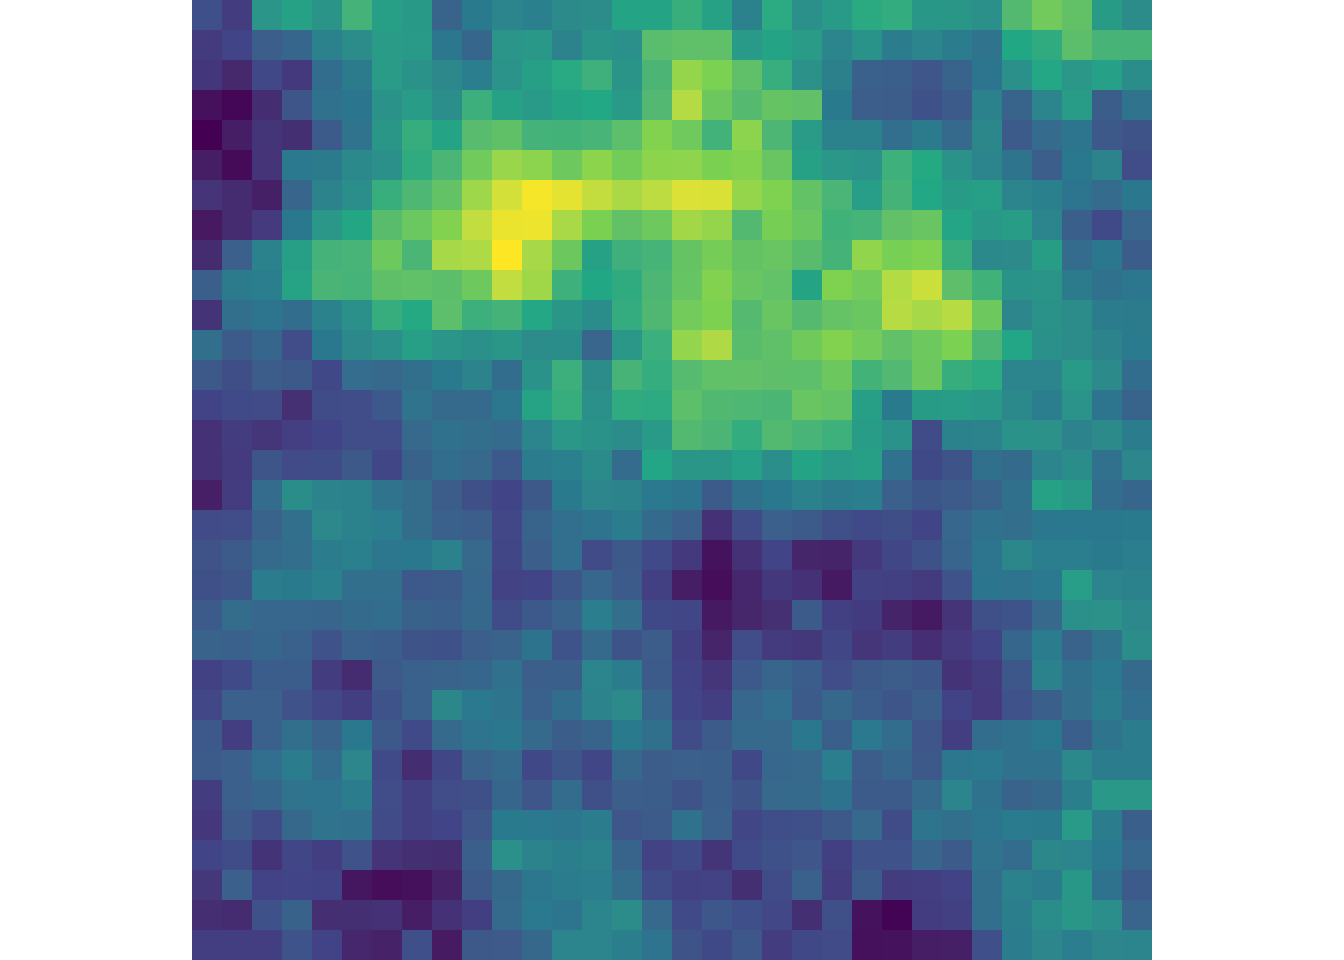
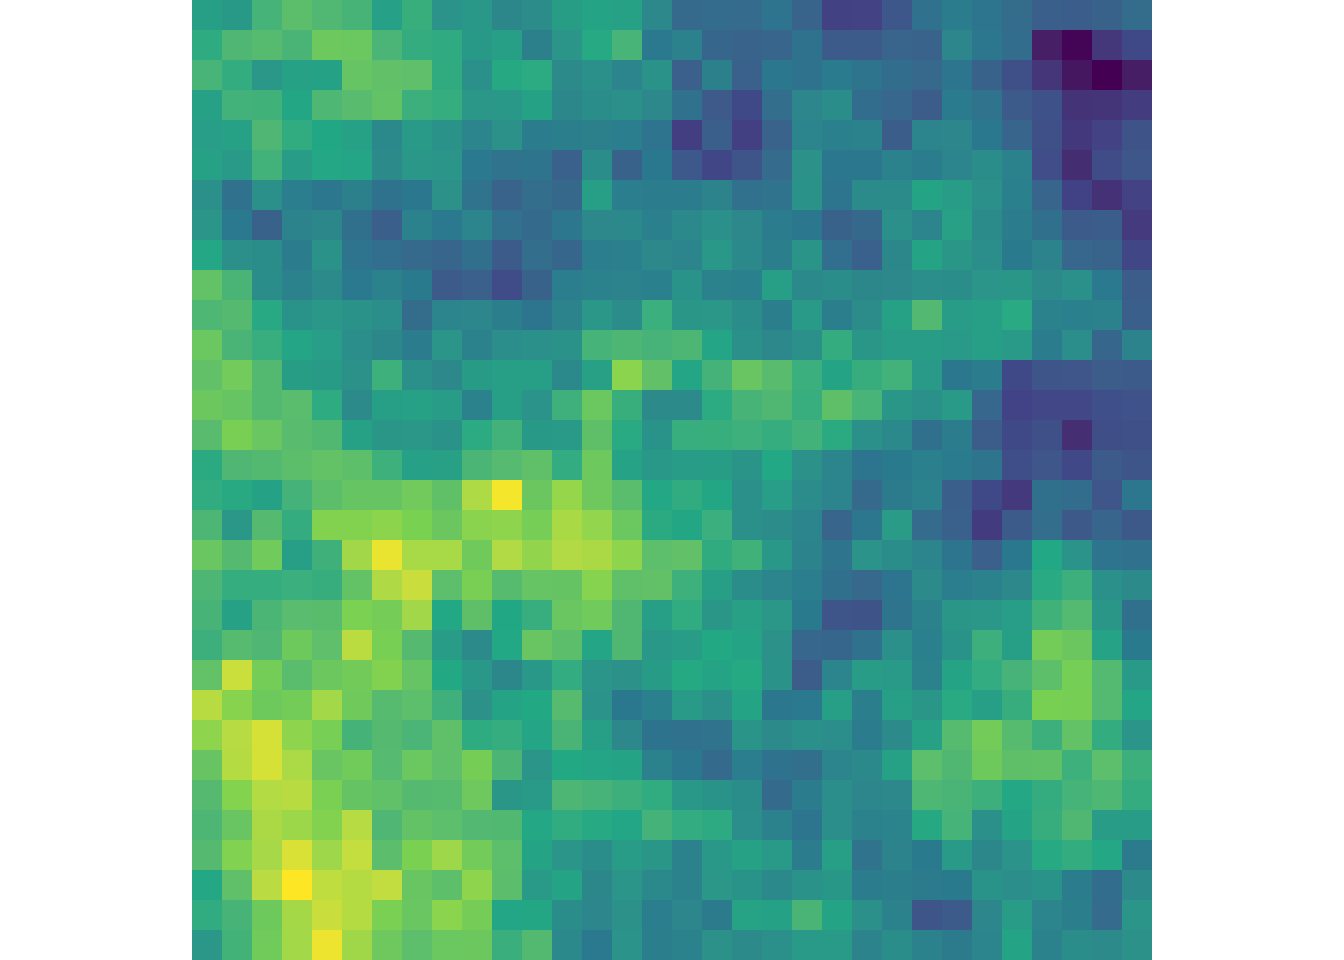
change name

diff --git a/docs/posts.html b/docs/posts.html
@@ -206,13 +206,15 @@ window.Quarto = {
 
 <div class="quarto-listing quarto-listing-container-grid" id="listing-listing">
 <div class="list grid quarto-listing-cols-3">
-<div class="g-col-1" data-index="0" data-categories="" data-listing-date-sort="1741676400000" data-listing-file-modified-sort="1741719758053" data-listing-date-modified-sort="NaN" data-listing-reading-time-sort="8" data-listing-word-count-sort="1524">
+<div class="g-col-1" data-index="0" data-categories="" data-listing-date-sort="1741676400000" data-listing-file-modified-sort="1741720175477" data-listing-date-modified-sort="NaN" data-listing-reading-time-sort="8" data-listing-word-count-sort="1524">
 <a href="./posts/2025-03-10-simulating-bivariate/20250311-climatebivariate.html" class="quarto-grid-link">
 <div class="quarto-grid-item card h-100 card-left">
-<p class="card-img-top"><img src="posts\2025-03-10-simulating-bivariate\process.png" style="height: 150px;"  class="thumbnail-image card-img"/></p>
+<p class="card-img-top">
+<img loading="lazy" src="./posts/2025-03-10-simulating-bivariate/single_process.png" class="thumbnail-image card-img" style="height: 150px;">
+</p>
 <div class="card-body post-contents">
 <h5 class="no-anchor card-title listing-title">
-Simulating the Climate and Multivariate Responses
+Linking Spatial Processes to Covarying Paramters
 </h5>
 <div class="listing-categories">
 

diff --git a/docs/posts/2025-03-10-simulating-bivariate/20250311-climatebivariate.html b/docs/posts/2025-03-10-simulating-bivariate/20250311-climatebivariate.html
@@ -9,7 +9,7 @@
 <meta name="author" content="MSK">
 <meta name="dcterms.date" content="2025-03-11">
 
-<title>Simulating the Climate and Multivariate Responses – Maia Sosa Kapur</title>
+<title>Linking Spatial Processes to Covarying Paramters – Maia Sosa Kapur</title>
 <style>
 code{white-space: pre-wrap;}
 span.smallcaps{font-variant: small-caps;}
@@ -199,7 +199,7 @@ window.Quarto = {
 
 <header id="title-block-header" class="quarto-title-block default">
 <div class="quarto-title">
-<h1 class="title">Simulating the Climate and Multivariate Responses</h1>
+<h1 class="title">Linking Spatial Processes to Covarying Paramters</h1>
 </div>
 
 
